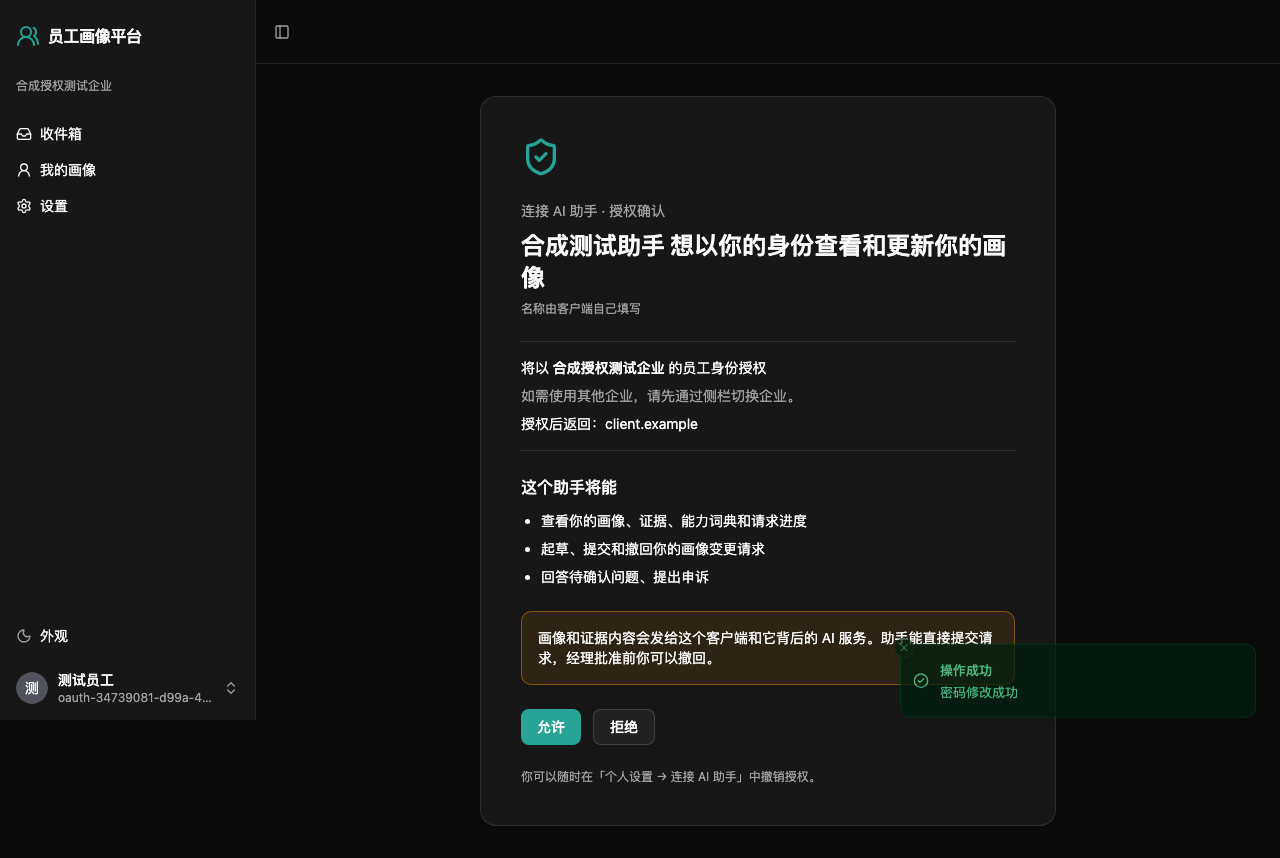
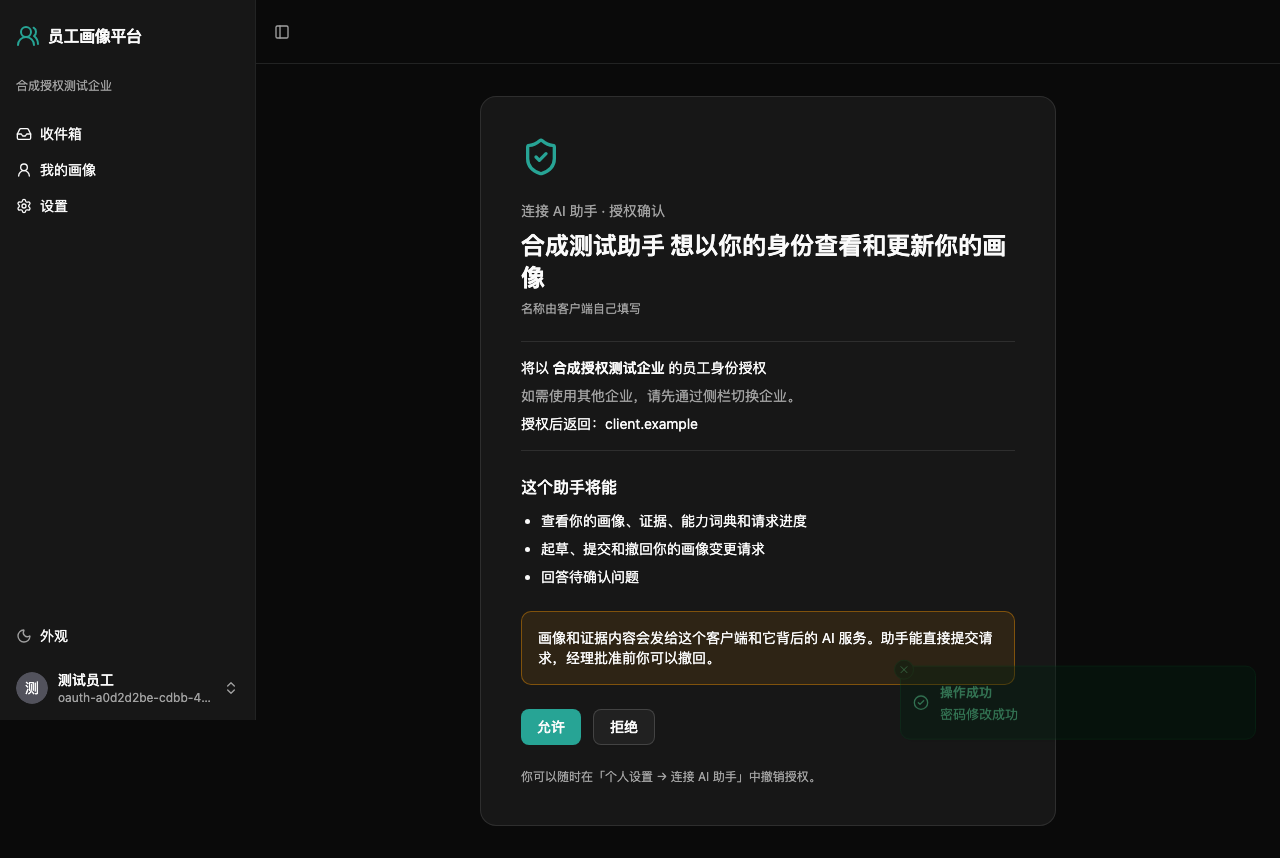
Align consent copy with available tools and record Inspector verification

Changed region(s): [[0.6875, 0.7273, 0.8125, 0.8485], [0.0625, 0.7879, 0.1562, 0.8182], [0.5, 0.6667, 0.5625, 0.697]]

diff --git a/frontend/src/routes/_layout/oauth/consent.tsx b/frontend/src/routes/_layout/oauth/consent.tsx
@@ -73,7 +73,7 @@ function Consent({ orgId, request }: { orgId: string; request: string }) {
         <ul className="list-disc space-y-2 pl-5 text-sm">
           <li>查看你的画像、证据、能力词典和请求进度</li>
           <li>起草、提交和撤回你的画像变更请求</li>
-          <li>回答待确认问题、提出申诉</li>
+          <li>回答待确认问题</li>
         </ul>
       </div>
       <p className="rounded-lg border border-amber-500/40 bg-amber-500/10 p-4 text-sm">
